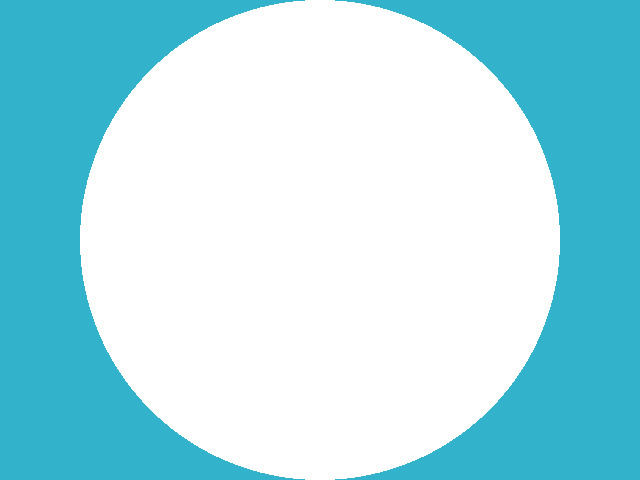
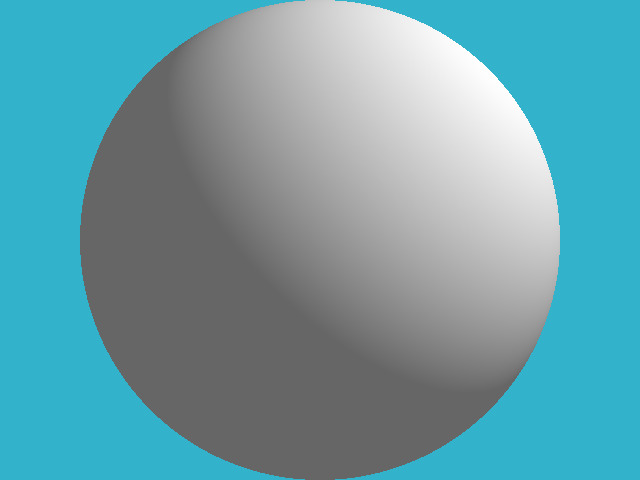
crude shading

diff --git a/tinykaboom.cpp b/tinykaboom.cpp
@@ -23,6 +23,15 @@ bool sphere_trace(const Vec3f &orig, const Vec3f &dir, Vec3f &pos) {
     return false;
 }
 
+Vec3f distance_field_normal(const Vec3f &pos) {
+    const float eps = 0.1;
+    float d = signed_distance(pos);
+    float nx = signed_distance(pos + Vec3f(eps, 0, 0)) - d;
+    float ny = signed_distance(pos + Vec3f(0, eps, 0)) - d;
+    float nz = signed_distance(pos + Vec3f(0, 0, eps)) - d;
+    return Vec3f(nx, ny, nz).normalize();
+}
+
 int main() {
     const int   width    = 640;
     const int   height   = 480;
@@ -37,7 +46,9 @@ int main() {
             float dir_z = -height/(2.*tan(fov/2.));
             Vec3f hit;
             if (sphere_trace(Vec3f(0, 0, 3), Vec3f(dir_x, dir_y, dir_z).normalize(), hit)) { // the camera is placed to (0,0,3) and it looks along the -z axis
-                framebuffer[i+j*width] = Vec3f(1, 1, 1);
+                Vec3f light_dir = (Vec3f(10, 10, 10) - hit).normalize();                     // one light is placed to (10,10,10)
+                float light_intensity  = std::max(0.4f, light_dir*distance_field_normal(hit));
+                framebuffer[i+j*width] = Vec3f(1, 1, 1)*light_intensity;
             } else {
                 framebuffer[i+j*width] = Vec3f(0.2, 0.7, 0.8); // background color
             }
